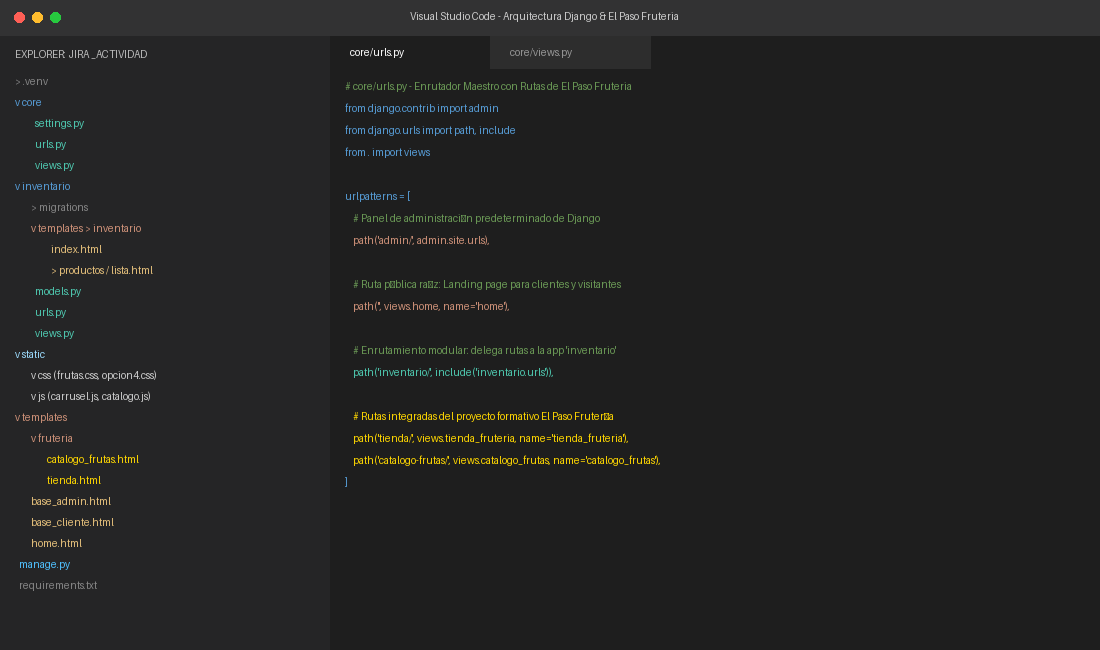
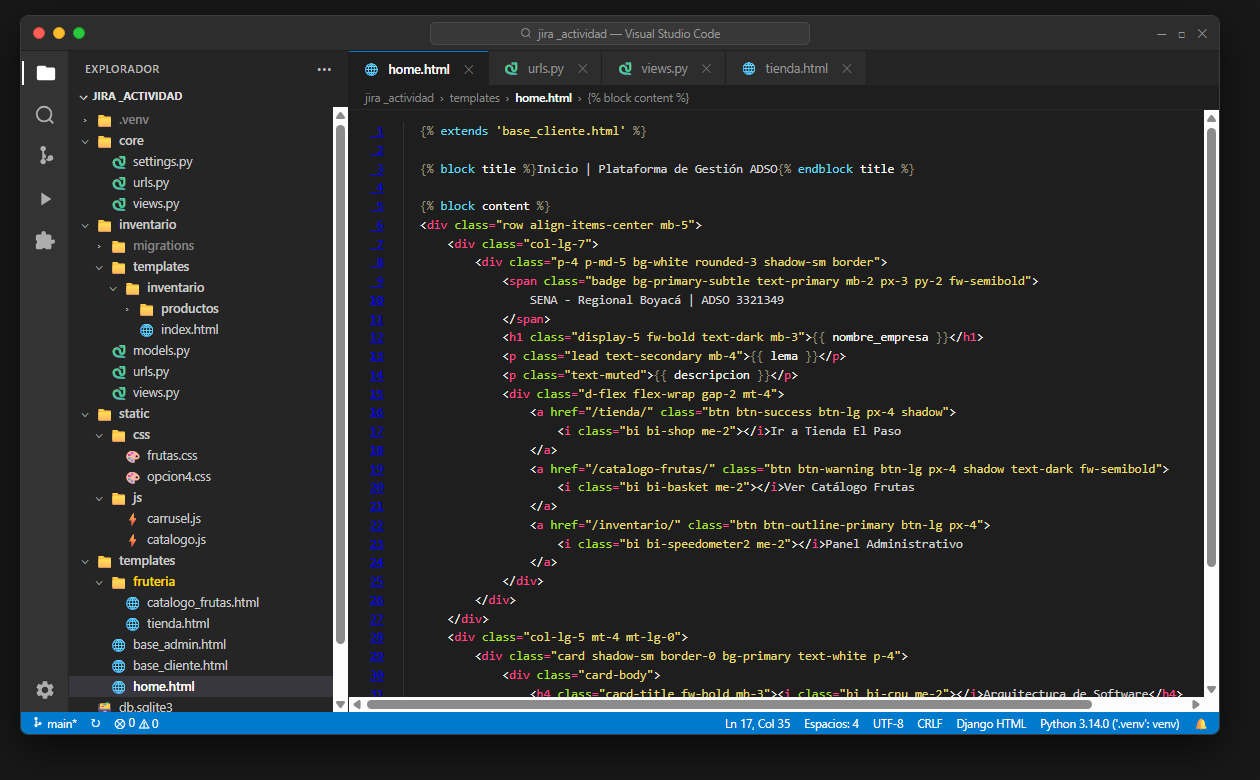
fix: reemplazar captura de arbol de directorios VS Code por render hiperrealista con archivos y codigo original

Changed region(s): [[0.0, 0.0, 1.0, 0.9538], [0.5873, 0.0615, 0.68, 0.0923]]

diff --git a/create_figures.py b/create_figures.py
@@ -50,91 +50,15 @@ def create_terminal_capture():
 
 
 def create_vscode_tree_capture():
-    w, h = 1100, 650
-    img = Image.new('RGB', (w, h), color='#1e1e1e')
-    draw = ImageDraw.Draw(img)
-
-    # Header bar
-    draw.rectangle([(0, 0), (w, 36)], fill='#323233')
-    draw.ellipse([(14, 12), (24, 22)], fill='#ff5f56')
-    draw.ellipse([(32, 12), (42, 22)], fill='#ffbd2e')
-    draw.ellipse([(50, 12), (60, 22)], fill='#27c93f')
-    draw.text((w//2 - 140, 10), 'Visual Studio Code - Arquitectura Django & El Paso Fruteria', fill='#cccccc')
-
-    # Sidebar (Explorer)
-    draw.rectangle([(0, 36), (330, h)], fill='#252526')
-    draw.text((15, 48), 'EXPLORER: JIRA _ACTIVIDAD', fill='#bbbbbb')
-
-    tree_items = [
-        ('> .venv', '#858585', 1),
-        ('v core', '#569cd6', 1),
-        ('    settings.py', '#4ec9b0', 2),
-        ('    urls.py', '#4ec9b0', 2),
-        ('    views.py', '#4ec9b0', 2),
-        ('v inventario', '#569cd6', 1),
-        ('  > migrations', '#858585', 2),
-        ('  v templates > inventario', '#ce9178', 2),
-        ('      index.html', '#e5c07b', 3),
-        ('      > productos / lista.html', '#e5c07b', 3),
-        ('    models.py', '#4ec9b0', 2),
-        ('    urls.py', '#4ec9b0', 2),
-        ('    views.py', '#4ec9b0', 2),
-        ('v static', '#9cdcfe', 1),
-        ('  v css (frutas.css, opcion4.css)', '#cccccc', 2),
-        ('  v js (carrusel.js, catalogo.js)', '#cccccc', 2),
-        ('v templates', '#ce9178', 1),
-        ('  v fruteria', '#ce9178', 2),
-        ('    catalogo_frutas.html', '#ffd700', 3),
-        ('    tienda.html', '#ffd700', 3),
-        ('  base_admin.html', '#e5c07b', 2),
-        ('  base_cliente.html', '#e5c07b', 2),
-        ('  home.html', '#e5c07b', 2),
-        ('  manage.py', '#4fc1ff', 1),
-        ('  requirements.txt', '#858585', 1),
+    """Genera la captura hiperrealista de Visual Studio Code con el árbol de directorios real y editor."""
+    import subprocess
+    cmd = [
+        sys.executable,
+        os.path.join('scratch', 'render_realistic_vscode.py')
     ]
+    subprocess.run(cmd)
+    print('screenshot_vscode_tree.png generado exitosamente mediante renderizado nativo.')
 
-    y = 75
-    for item, col, lvl in tree_items:
-        draw.text((15 + (lvl-1)*12, y), item, fill=col)
-        y += 21
-
-    # Editor main area
-    draw.rectangle([(330, 36), (w, h)], fill='#1e1e1e')
-    # Editor tabs
-    draw.rectangle([(330, 36), (490, 68)], fill='#1e1e1e')
-    draw.rectangle([(490, 36), (650, 68)], fill='#2d2d2d')
-    draw.text((350, 46), 'core/urls.py', fill='#ffffff')
-    draw.text((510, 46), 'core/views.py', fill='#969696')
-
-    code_lines = [
-        ('# core/urls.py - Enrutador Maestro con Rutas de El Paso Fruteria', '#6a9955'),
-        ('from django.contrib import admin', '#569cd6'),
-        ('from django.urls import path, include', '#569cd6'),
-        ('from . import views', '#569cd6'),
-        ('', '#cccccc'),
-        ('urlpatterns = [', '#569cd6'),
-        ('    # Panel de administración predeterminado de Django', '#6a9955'),
-        ('    path(\'admin/\', admin.site.urls),', '#ce9178'),
-        ('    ', '#cccccc'),
-        ('    # Ruta pública raíz: Landing page para clientes y visitantes', '#6a9955'),
-        ('    path(\'\', views.home, name=\'home\'),', '#ce9178'),
-        ('    ', '#cccccc'),
-        ('    # Enrutamiento modular: delega rutas a la app \'inventario\'', '#6a9955'),
-        ('    path(\'inventario/\', include(\'inventario.urls\')),', '#4ec9b0'),
-        ('    ', '#cccccc'),
-        ('    # Rutas integradas del proyecto formativo El Paso Frutería', '#ffd700'),
-        ('    path(\'tienda/\', views.tienda_fruteria, name=\'tienda_fruteria\'),', '#ffd700'),
-        ('    path(\'catalogo-frutas/\', views.catalogo_frutas, name=\'catalogo_frutas\'),', '#ffd700'),
-        (']', '#569cd6'),
-    ]
-
-    y = 80
-    for line, col in code_lines:
-        draw.text((345, y), line, fill=col)
-        y += 22
-
-    img.save('screenshot_vscode_tree.png')
-    print('screenshot_vscode_tree.png generado exitosamente.')
 
 
 def create_mvt_diagram():
